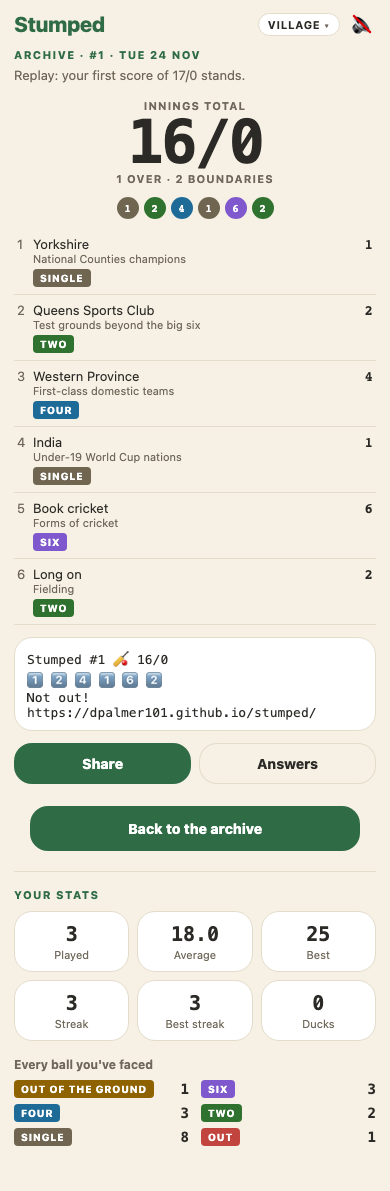
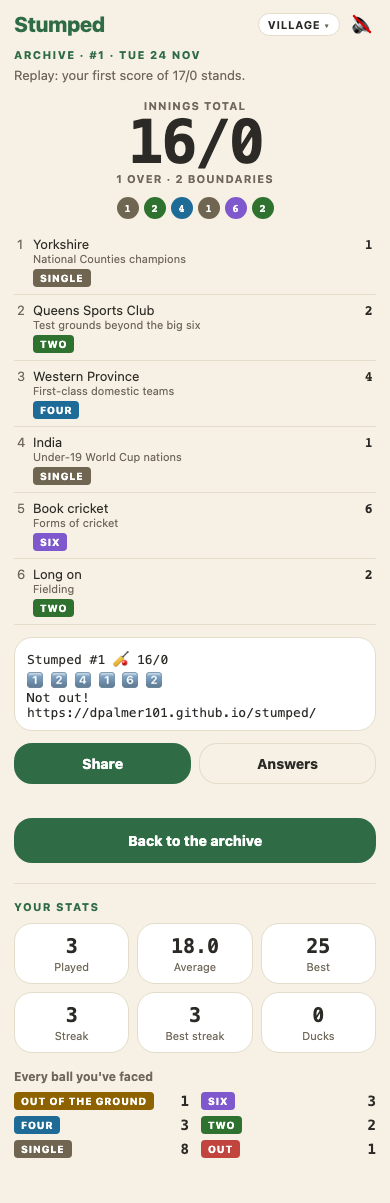
Make Back to the archive as wide as Share and Answers

diff --git a/tests/e2e/game.spec.ts b/tests/e2e/game.spec.ts
@@ -232,7 +232,12 @@ test.describe("archive", () => {
     await expect(page.locator(".tile").filter({ hasText: "Played" })).toContainText("1");
     await expect(page.locator(".tile").filter({ hasText: /^\d+Streak$/ })).toContainText("0");
 
-    await page.getByRole("button", { name: "Back to the archive" }).click();
+    // As wide as the Share and Answers row above it.
+    const back = page.getByRole("button", { name: "Back to the archive" });
+    expect((await back.boundingBox())?.width).toBe(
+      (await page.locator(".two").boundingBox())?.width,
+    );
+    await back.click();
     await expect(dayOneRow).toContainText("6/0 · from the archive");
     await dayOneRow.getByRole("button", { name: "Play again: #1" }).click();
     await playOver(page, ootg);

diff --git a/src/ui/app.ts b/src/ui/app.ts
@@ -934,7 +934,7 @@ export class App {
         }</div>`
       : "";
     const next = this.archive
-      ? `<button class="btn wide" data-act="to-archive">Back to the archive</button>`
+      ? `<button class="btn wide scorecard-archive" data-act="to-archive">Back to the archive</button>`
       : `<div class="next">Next innings in <span id="countdown">${formatCountdown(msUntilNextPuzzle(new Date()))}</span></div>
         <button class="btn ghost wide scorecard-archive" data-act="to-archive">Archive</button>`;
     this.root.innerHTML = `${this.topBar(false)}<main class="card">${this.newDayBanner()}${archiveHead}
